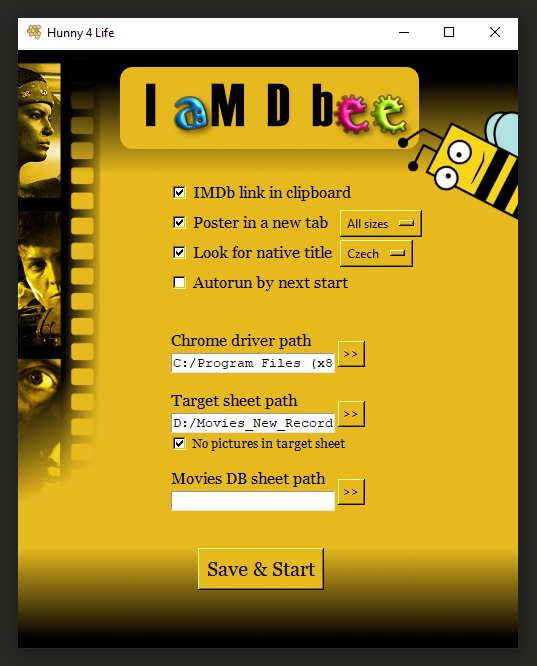
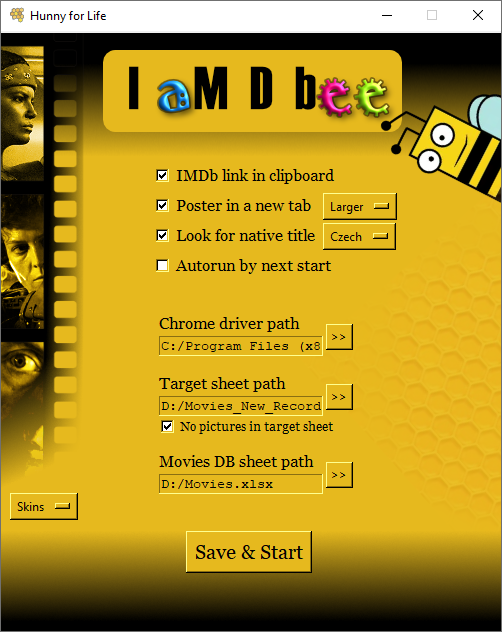
formatting, screenshots

diff --git a/main.py b/main.py
@@ -266,55 +266,52 @@ button_save_and_start = Button(window, text = "Save & Start", command = save_and
 def display_widgets():
     # BASE VALUES
     # X
-    display_x = 150
-    display_x_button_gap = 170
-    display_x_gap_for_path_objects = 5
+    x = 150
+    x_button_gap = 170
+    x_gap_for_path_objects = 5
     # Y
-    display_y_BASE = 130
-    display_y_GAP = 30
+    y_base = 130
+    y_gap = 30
 
     
     def y_location(gap_by_number):
-        display_y = display_y_BASE + display_y_GAP * gap_by_number
+        display_y = y_base + y_gap * gap_by_number
         return display_y
 
-    #WINDOW TITLE
-    # window_title.place(x=display_x+40, y=10)
-
     # CLIPBOARD CHECKBOX
-    checkbox['clipboard'][1].place(x=display_x, y=y_location(0))
+    checkbox['clipboard'][1].place(x=x, y=y_location(0))
 
     # POSTER CHECKBOX + ROLL DOWN BUTTON
-    checkbox['poster'][1].place(x=display_x, y=y_location(1))
-    poster_roll_down.place(x=display_x+display_x_button_gap, y=y_location(1))
+    checkbox['poster'][1].place(x=x, y=y_location(1))
+    poster_roll_down.place(x=x+x_button_gap, y=y_location(1))
 
     # LOOK FOR NATIVE TITLE + ROLL DOWN BUTTON
-    checkbox['title'][1].place(x=display_x, y=y_location(2))
-    title_search_roll_down.place(x=display_x+display_x_button_gap, y=y_location(2))
+    checkbox['title'][1].place(x=x, y=y_location(2))
+    title_search_roll_down.place(x=x+x_button_gap, y=y_location(2))
 
      # RAUN BY START CHECKBOX
-    checkbox['run'][1].place(x=display_x, y=y_location(3))
+    checkbox['run'][1].place(x=x, y=y_location(3))
 
     # CHROME DRIVER PATH - TITEL + FIELD + BUTTON
-    chrome_driver_field_title.place(x=display_x+display_x_gap_for_path_objects, y=y_location(5))
-    chrome_driver_field.place(x=display_x+display_x_gap_for_path_objects+3, y=y_location(5)+25)
-    chrome_driver_button.place(x=display_x+display_x_gap_for_path_objects+display_x_button_gap, y=y_location(5)+13)
+    chrome_driver_field_title.place(x=x+x_gap_for_path_objects, y=y_location(5))
+    chrome_driver_field.place(x=x+x_gap_for_path_objects+3, y=y_location(5)+25)
+    chrome_driver_button.place(x=x+x_gap_for_path_objects+x_button_gap, y=y_location(5)+13)
 
     # TARGET SHEET PATH - TITEL + FIELD + BUTTON
-    target_sheet_field_title.place(x=display_x+display_x_gap_for_path_objects, y=y_location(7))
-    target_sheet_field.place(x=display_x+display_x_gap_for_path_objects+3, y=y_location(7)+25)
-    target_sheet_button.place(x=display_x+display_x_gap_for_path_objects+display_x_button_gap, y=y_location(7)+13)
+    target_sheet_field_title.place(x=x+x_gap_for_path_objects, y=y_location(7))
+    target_sheet_field.place(x=x+x_gap_for_path_objects+3, y=y_location(7)+25)
+    target_sheet_button.place(x=x+x_gap_for_path_objects+x_button_gap, y=y_location(7)+13)
 
     # NO PICTURE IN TARHET SHEET CHECKBOX
-    checkbox['no_picture'][1].place(x=display_x+display_x_gap_for_path_objects, y=y_location(8)+13)
+    checkbox['no_picture'][1].place(x=x+x_gap_for_path_objects, y=y_location(8)+13)
 
     # MOVIES DB SHEET PATH - TITEL + FIELD + BUTTON
-    movies_db_sheet_field_title.place(x=display_x+display_x_gap_for_path_objects, y=y_location(10)-12)
-    movies_db_sheet_field.place(x=display_x+display_x_gap_for_path_objects+3, y=y_location(10)+25-12)
-    movies_db_sheet_button.place(x=display_x+display_x_gap_for_path_objects+display_x_button_gap, y=y_location(10)+13-12)
+    movies_db_sheet_field_title.place(x=x+x_gap_for_path_objects, y=y_location(10)-12)
+    movies_db_sheet_field.place(x=x+x_gap_for_path_objects+3, y=y_location(10)+25-12)
+    movies_db_sheet_button.place(x=x+x_gap_for_path_objects+x_button_gap, y=y_location(10)+13-12)
 
     # SAVE SETTINGS & START BUTTON
-    button_save_and_start.place(x=display_x+display_x_gap_for_path_objects+30, y=y_location(12)+10)
+    button_save_and_start.place(x=x+x_gap_for_path_objects+30, y=y_location(12)+10)
 
     # SKINS ROLL DOWN BUTTON
     skins_roll_down.place(x=7, y=y_location(11))

diff --git a/README.md b/README.md
@@ -10,8 +10,12 @@
 - Automatically opens your movie database excel sheet (if the path added by the user via UI)
 $~$
 * Please see the requirements in the docs folder
-* Default skin: bee icon/figure by Martin Berube, please see more information in launcher/icon
-$~$
+
+
 <div align="center">
-    <img src="https://raw.githubusercontent.com/K4KarolE/31_I_aM_D_bee/main/docs/promo/default.png" width="500px"</img> 
+    <img src="https://raw.githubusercontent.com/K4KarolE/31_I_aM_D_bee/main/docs/promo/default.png" width="502px"</img> 
+</div>
+
+<div align="center">
+    <img src="https://raw.githubusercontent.com/K4KarolE/31_I_aM_D_bee/main/docs/promo/darth.png" width="502px"</img> 
 </div>
